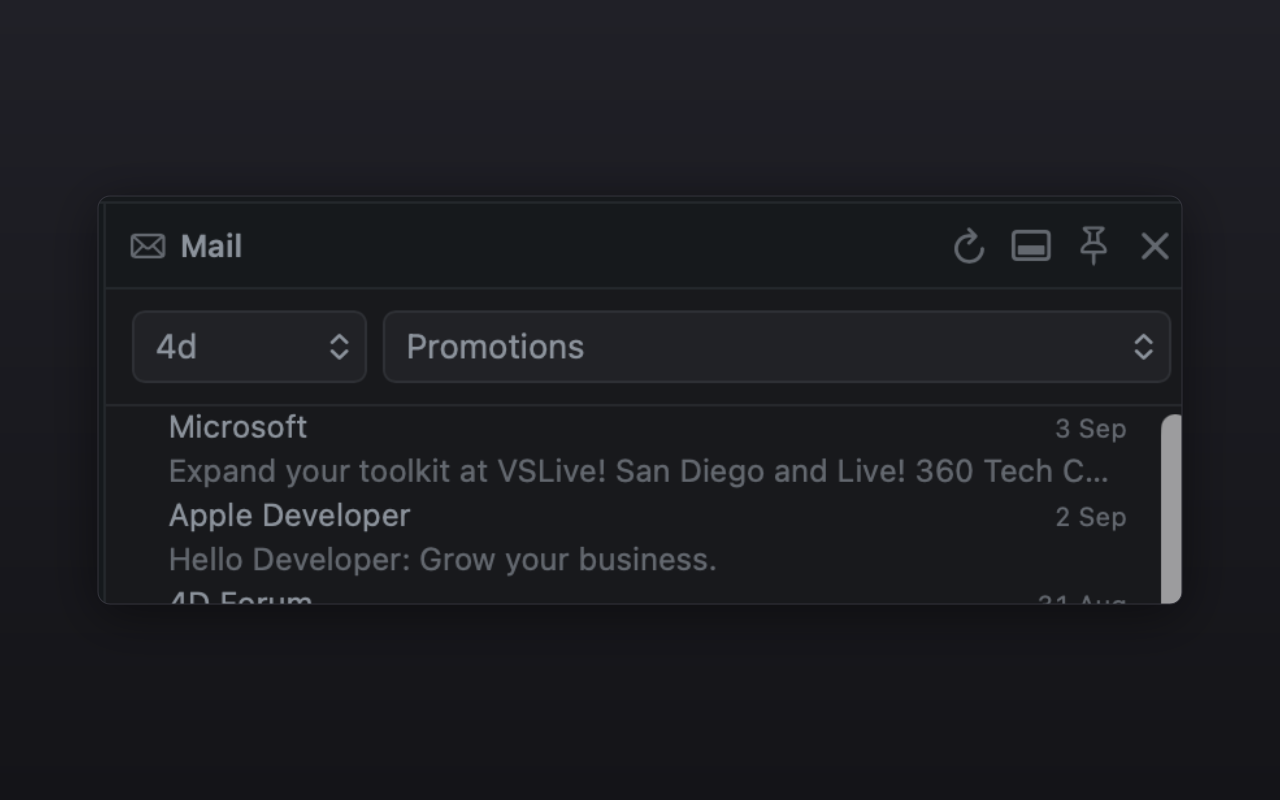
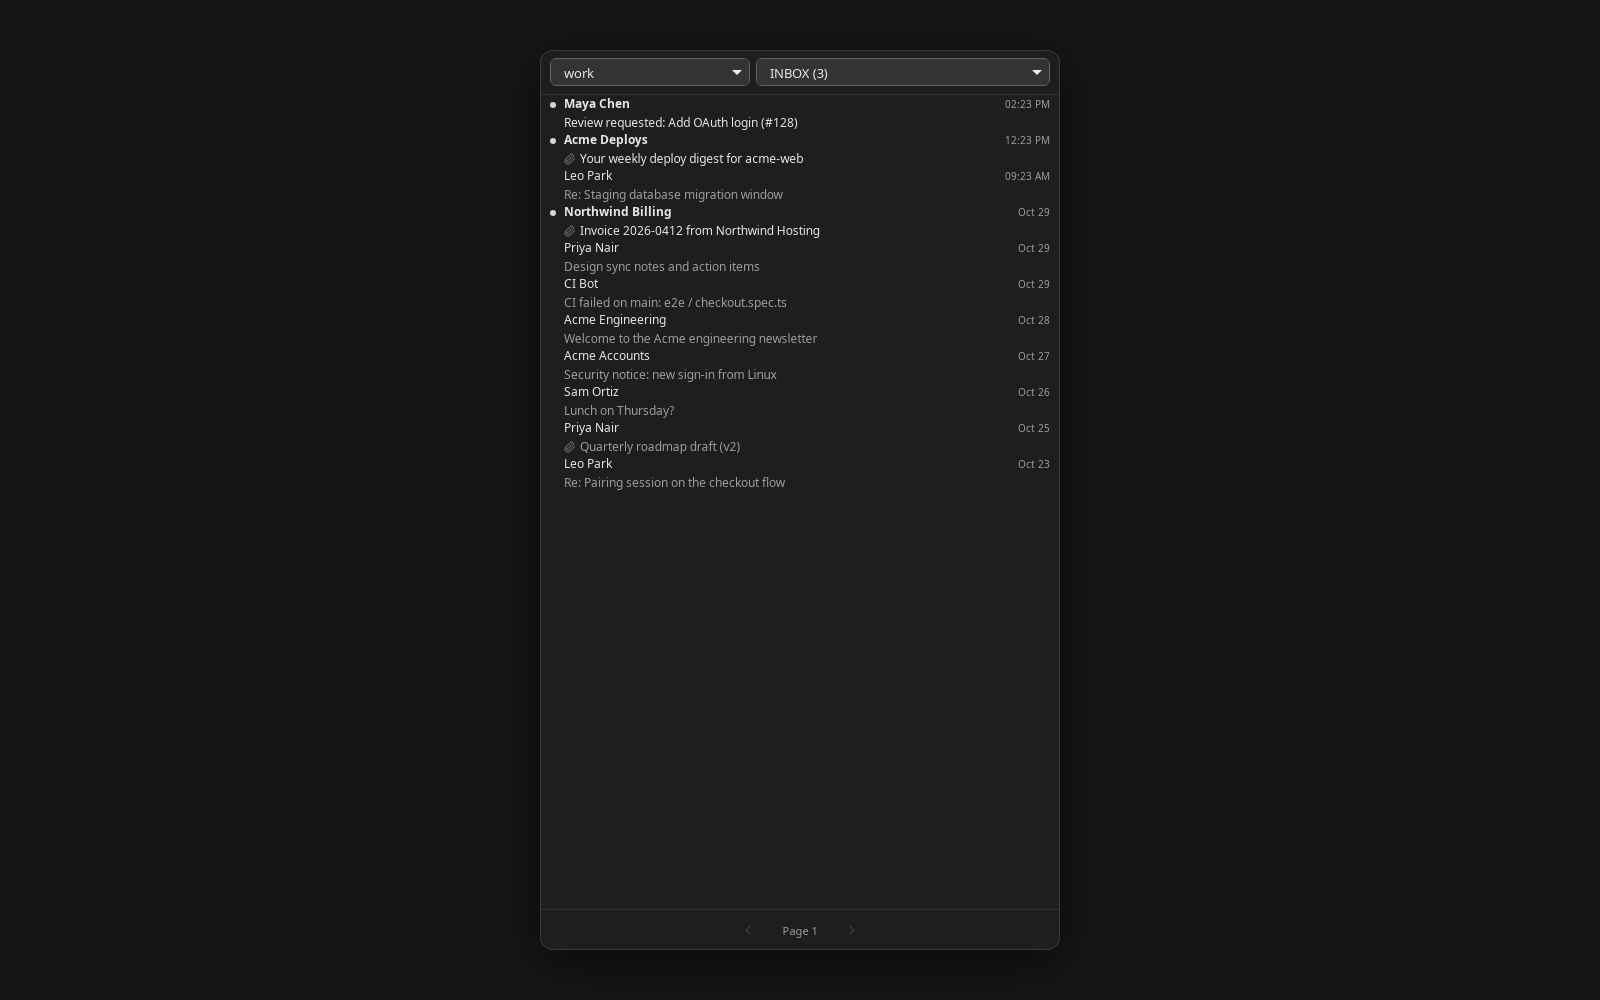
himalaya 0.1.1 (#23)
* himalaya: harness case and fixture, credits, version 0.1.1

* himalaya: replace listing screenshots with neutral renders

diff --git a/tools/harness/fixtures/himalaya.js b/tools/harness/fixtures/himalaya.js
@@ -1,0 +1,83 @@
+// Sample mailbox for the himalaya extension: Himalaya CLI output served through atur.exec.
+(() => {
+  const h = window.__harness;
+  const ago = (hours) => new Date(Date.now() - hours * 3600 * 1000).toISOString();
+  const seen = [{ raw: "\\Seen", iana: "Seen" }];
+  const addr = (name, email) => [{ name, email }];
+
+  const envelopes = [
+    { id: "412", subject: "Review requested: Add OAuth login (#128)", from: addr("Maya Chen", "maya@acme.example"), date: ago(1), flags: [], "has-attachment": false },
+    { id: "411", subject: "Your weekly deploy digest for acme-web", from: addr("Acme Deploys", "deploys@acme.example"), date: ago(3), flags: [], "has-attachment": true },
+    { id: "410", subject: "Re: Staging database migration window", from: addr("Leo Park", "leo@acme.example"), date: ago(6), flags: seen, "has-attachment": false },
+    { id: "409", subject: "Invoice 2026-0412 from Northwind Hosting", from: addr("Northwind Billing", "billing@northwind.example"), date: ago(20), flags: [], "has-attachment": true },
+    { id: "408", subject: "Design sync notes and action items", from: addr("Priya Nair", "priya@acme.example"), date: ago(27), flags: seen, "has-attachment": false },
+    { id: "407", subject: "CI failed on main: e2e / checkout.spec.ts", from: addr("CI Bot", "ci@acme.example"), date: ago(31), flags: seen, "has-attachment": false },
+    { id: "406", subject: "Welcome to the Acme engineering newsletter", from: addr("Acme Engineering", "news@acme.example"), date: ago(52), flags: seen, "has-attachment": false },
+    { id: "405", subject: "Security notice: new sign-in from Linux", from: addr("Acme Accounts", "no-reply@acme.example"), date: ago(75), flags: seen, "has-attachment": false },
+    { id: "404", subject: "Lunch on Thursday?", from: addr("Sam Ortiz", "sam@acme.example"), date: ago(98), flags: seen, "has-attachment": false },
+    { id: "403", subject: "Quarterly roadmap draft (v2)", from: addr("Priya Nair", "priya@acme.example"), date: ago(130), flags: seen, "has-attachment": true },
+    { id: "402", subject: "Re: Pairing session on the checkout flow", from: addr("Leo Park", "leo@acme.example"), date: ago(160), flags: seen, "has-attachment": false },
+  ];
+
+  const bodies = {
+    "412": [
+      "Hi,",
+      "",
+      "I opened pull request #128, \"Add OAuth login with GitHub provider\", and would",
+      "appreciate your review before Thursday.",
+      "",
+      "What changed",
+      "  - New /auth/github redirect and callback routes",
+      "  - Login page gets a provider button and an error state",
+      "  - Session cookie is now SameSite=Lax and rotated on sign-in",
+      "",
+      "How to try it",
+      "  1. git fetch origin && git checkout feature/login",
+      "  2. npm install && npm run dev",
+      "  3. Open http://localhost:3000/login and click \"Sign in with GitHub\"",
+      "",
+      "All checks are green. The denied-consent path has a test in",
+      "auth/callback.test.ts, and I left a few questions inline on the session",
+      "handling.",
+      "",
+      "Thanks!",
+      "Maya",
+    ].join("\n"),
+  };
+
+  const mailboxes = [
+    { name: "INBOX", desc: "\\HasNoChildren", unread: 3 },
+    { name: "Archive", desc: "\\Archive", unread: 0 },
+    { name: "Drafts", desc: "\\Drafts", unread: 0 },
+    { name: "Sent", desc: "\\Sent", unread: 0 },
+    { name: "Trash", desc: "\\Trash", unread: 0 },
+  ];
+
+  h.set("settings.get", async () => null);
+  h.set("exec", async (argv) => {
+    const ok = (stdout) => ({ stdout, stderr: "", exitCode: 0 });
+    if (argv[0] === "/usr/bin/which") return ok("/usr/bin/himalaya\n");
+    const args = argv.slice(1).filter((a) => a !== "--json");
+    if (args[0] === "account") return ok(JSON.stringify({ accounts: [{ name: "work", backend: "IMAP", default: true }] }));
+    if (args[0] === "mailbox") return ok(JSON.stringify({ mailboxes }));
+    if (args[0] === "envelope") return ok(JSON.stringify({ envelopes }));
+    if (args[0] === "message" && args[1] === "read") {
+      const id = args[args.length - 1] === "INBOX" ? args[args.length - 3] : args[args.length - 1];
+      const found = args.find((a) => bodies[a]);
+      return ok(bodies[found || id] || "");
+    }
+    return ok("");
+  });
+
+  const sleep = (ms) => new Promise((resolve) => setTimeout(resolve, ms));
+  const until = async (test) => { for (let i = 0; i < 100 && !test(); i += 1) await sleep(100); };
+  window.addEventListener("load", async () => {
+    await until(() => document.querySelector(".mail-row"));
+    if (window.__harness.data?.open) {
+      document.querySelector(".mail-row").click();
+      await until(() => document.querySelector(".mail-msg-text")?.textContent.includes("pull request"));
+    }
+    await sleep(300);
+    window.__ready = true;
+  });
+})();

diff --git a/extensions/himalaya/README.md b/extensions/himalaya/README.md
@@ -102,3 +102,7 @@ Everything runs on demand through `atur.exec`:
 | Archive / move | `himalaya message move --from <box> --to <target> <id>` |
 | Delete | `himalaya message delete --mailbox <box> <id>` |
 | Mark unread | `himalaya flag remove --mailbox <box> --flag Seen <id>` |
+
+## Credits
+
+Originally published in muxy-app/extensions (MIT) by Eric Marchand. Maintained by Atur Terminal.
